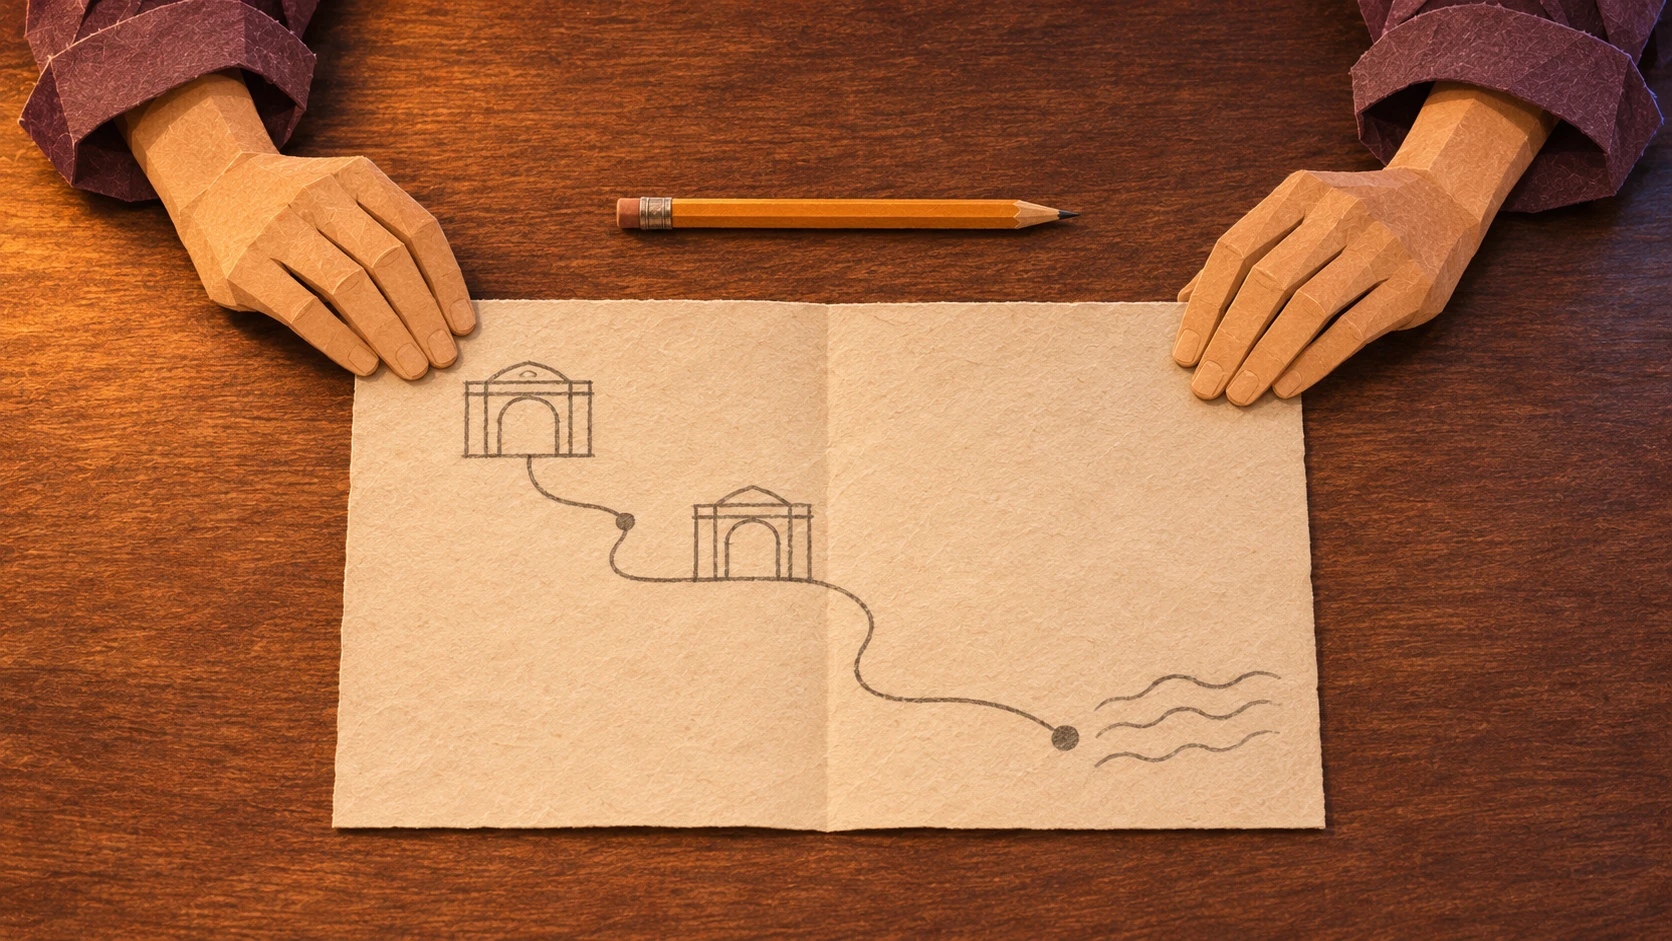
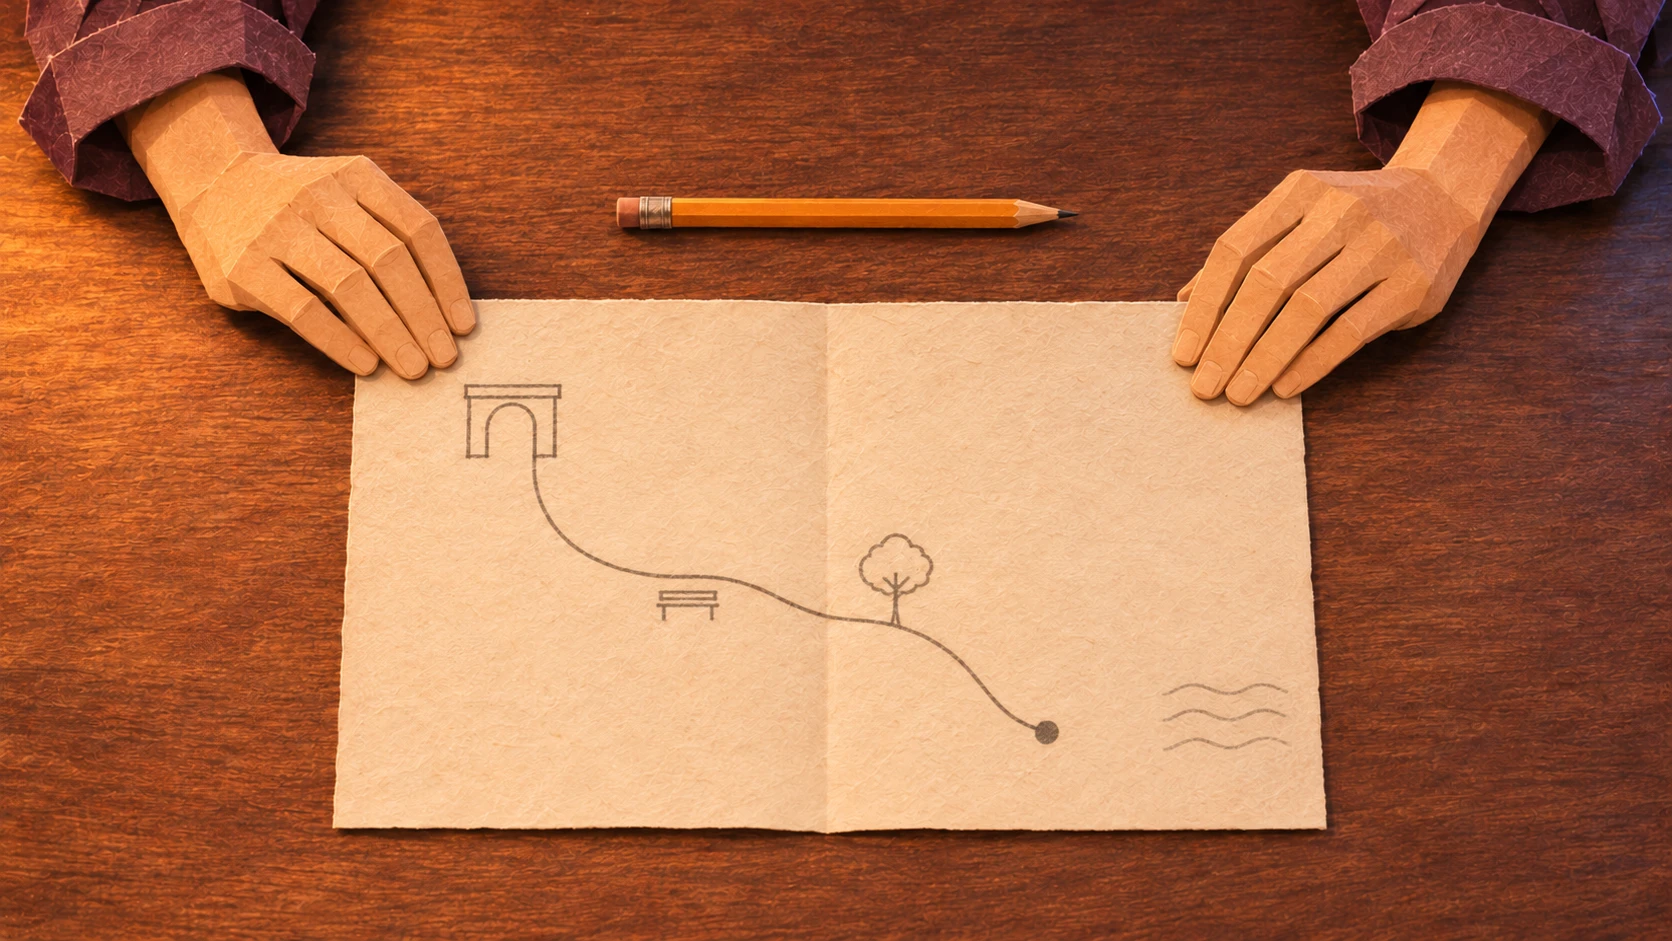
Ellis's route, corrected and on by default; the lesson is spoken as the reflection opens
- Robert's corrected P2b (cherry-picked): one courtyard arch, a route past a
  bench and a tree, ending on open ground with the harbour unreached. It's
  now the runtime open plate, so The Quiet Minute's close look is on by
  default (?p2=0 turns it off). For Bob's review before any publish.
- When a story's reflection opens, the narrator reads its lesson (if a take
  exists).
- make-voices-v2.py renders the lessons and skips takes that already exist
  (--redo re-renders).
- qa/voices.html: a review page with every take, its direction and what
  Whisper heard, beside a few old Kokoro lines.

Claude-Session: https://claude.ai/code/session_01ApSKLU6ahVPpCbpsvAcGP2

diff --git a/docs/demos/played/qa/voices.html b/docs/demos/played/qa/voices.html
@@ -1,0 +1,47 @@
+<!doctype html>
+<html lang="en">
+<head>
+<meta charset="utf-8">
+<meta name="viewport" content="width=device-width,initial-scale=1">
+<title>Voice takes</title>
+<!-- Review page (not shipped): every scripted line's take, its acting direction, and what Whisper heard. -->
+<style>
+:root{--ink:#f3e7cf;--dim:#b9ae9a;--gold:#e9c27a;--bg:#0b0b10;--line:#ffffff1a}
+*{box-sizing:border-box}body{margin:0;background:var(--bg);color:var(--ink);font:15px/1.5 system-ui,sans-serif}
+main{max-width:980px;margin:0 auto;padding:24px 16px 64px}h1{font:28px Georgia,serif;margin:.2em 0}h2{font:22px Georgia,serif;margin:1.6em 0 .4em;color:var(--gold)}
+p.lead{color:var(--dim);max-width:62em}
+.row{display:grid;grid-template-columns:7.5em 1fr 220px;gap:12px;align-items:center;padding:10px 0;border-top:1px solid var(--line)}
+.who{font-weight:600}.who small{display:block;font-weight:400;color:var(--dim)}
+.text{font:16px/1.45 Georgia,serif}.dir{display:block;color:var(--dim);font:italic 13px/1.4 system-ui;margin-top:3px}
+.heard{display:block;color:#9fb7a0;font-size:12.5px;margin-top:3px}.flag{color:#f0a070}
+audio{width:100%}
+@media(max-width:700px){.row{grid-template-columns:1fr}}
+</style>
+</head>
+<body>
+<main>
+<h1>Voice takes for the played scripts</h1>
+<p class="lead">These are scratch performances, rendered locally with Qwen3-TTS 1.7B CustomVoice (Apache-2.0) from each line's acting direction. Whisper checked each take's words; a flag means it drifted. They're meant to be heard against the old scratch voices below, then against Eleven v4 and our own recordings. Play them in the scene too: <a href="../scene.html?ep=slides" style="color:var(--gold)">the scenes</a> use these takes automatically.</p>
+<div id="old"></div>
+<div id="list">Loading…</div>
+</main>
+<script>
+(async function(){
+ const [man,rep,scripts]=await Promise.all([fetch('../voices/v2/manifest.json').then(r=>r.json()),fetch('voice-report.json').then(r=>r.ok?r.json():{}).catch(()=>({})),
+  Promise.all(['standup','slides','scope','pixel','ship','seam'].map(ep=>fetch('../scripts/'+ep+'.json').then(r=>r.json())))]);
+ const el=(t,c,x)=>{const e=document.createElement(t);if(c)e.className=c;if(x!=null)e.textContent=x;return e};
+ const row=(who,voice,text,dir,src,heard,flag)=>{const r=el('div','row');const w=el('div','who',who);if(voice)w.append(el('small',null,voice));
+  const t=el('div','text',text);if(dir)t.append(el('span','dir',dir));if(heard!=null){const h=el('span','heard'+(flag?' flag':''),(flag?'Check: ':'Heard: ')+heard);t.append(h)}
+  const a=src?Object.assign(el('audio'),{controls:true,preload:'none',src}):el('span','dir','not rendered yet');r.append(w,t,a);return r};
+ const old=document.getElementById('old');old.append(el('h2',null,'Before: the old scratch voices (Kokoro)'));
+ for(const [who,text,f] of [['Theo','Main gate, courtyard, then the harbour. Everyone happy?','qm-01'],['Nia','The courtyard gate closes—','qm-02'],['Nia','We arrive after it closes.','qm-04'],['Asha','They won’t know where the map came from.','slides-setup-3']])
+  old.append(row(who,'kokoro',text,null,'../voices/'+f+'.mp3'));
+ const list=document.getElementById('list');list.textContent='';
+ for(const s of scripts){const ep=s.id,m=man[ep]||{},rp=rep[ep]||{};list.append(el('h2',null,s.title));
+  const lines=s.id==='standup'?[...s.setup,...Object.values(s.branches).flat()].map(b=>[b.id,b]):[...s.setup.map((b,i)=>['setup-'+i,b]),...Object.entries(s.branches).flatMap(([k,v])=>v.map((b,i)=>[k+'-'+i,b]))];
+  if(s.lesson)lines.push(['lesson',{speaker:'',line:s.lesson,direction:'the lesson, read as the reflection opens'}]);
+  for(const [key,b] of lines){if(!b.line)continue;const r=rp[key];list.append(row(b.speaker||'Narrator',r?r.voice:'',b.line,b.direction,m[key]?'../voices/v2/'+m[key]:null,r?r.heard:null,r&&r.flag))}}
+})();
+</script>
+</body>
+</html>

diff --git a/docs/demos/played/quiet.js b/docs/demos/played/quiet.js
@@ -11,7 +11,7 @@ await Promise.all(Object.entries(PLATES).map(([k,f])=>stage.add(k,PL+f+'.webp','
 // Ellis's route close-ups (Robert's P2a/P2b) are review candidates until Bob approves them: ?p2=1 turns them on.
 // The played script (scripts/standup.json): who's who, the lines with their acting, the question and the reflections.
 const SCRIPT=window.StoryUI?await StoryUI.load('standup'):null,UI=SCRIPT?StoryUI.create(SCRIPT):null;
-const P2=new URLSearchParams(location.search).get('p2')==='1';let P2ready=false;
+const P2=new URLSearchParams(location.search).get('p2')!=='0';let P2ready=false;// Robert's corrected route (courtyard to open ground) is on by default; ?p2=0 turns the close look off.
 // The real objects (P0): a clean table with the platter, the tray and the hands as separate layers, so the platter
 // turns under Theo's hand and the tray slides with its own shadow. If they fail to load, the region warp stays.
 const LAYERS='plates/qm-layers/';let layered=false;
@@ -178,7 +178,7 @@ function commit(id){if(phase!=='decision')return;UI&&UI.decide(false);$('thought
    at(25,ending)}})}
 const Q=new URLSearchParams(location.search),SESSION=Q.get('session')||'standalone',EMBED=parent!==window;let reported=false;
 function notify(type,outcome){if(EMBED)parent.postMessage({channel:'asterwind.episode.v1',episodeId:'standup',session:SESSION,type,...(outcome?{outcome}:{})},'*')}
-function ending(){phase='end';if(UI&&UI.reflect(choice,$('end'))){const r=SCRIPT.reflections[choice];live('The Quiet Minute. '+r.title+' What it kept: '+r.kept+' What it cost: '+r.cost+' '+SCRIPT.lesson)}else{$('end').hidden=false;$('again').focus({preventScroll:true});live('The Quiet Minute. Again, or the other way.')}if(!reported){reported=true;notify('completed',choice)}}
+function ending(){phase='end';if(UI&&UI.reflect(choice,$('end'))){if(buf['v2:lesson'])at(1.2,()=>play('v2:lesson',.9));const r=SCRIPT.reflections[choice];live('The Quiet Minute. '+r.title+' What it kept: '+r.kept+' What it cost: '+r.cost+' '+SCRIPT.lesson)}else{$('end').hidden=false;$('again').focus({preventScroll:true});live('The Quiet Minute. Again, or the other way.')}if(!reported){reported=true;notify('completed',choice)}}
 $('again').onclick=()=>{$('end').hidden=true;UI&&UI.hideReflection();cues.length=0;tweens.length=0;peeked=false;T=0;$('cap').querySelector('.line').textContent='';begin()};
 $('other').onclick=()=>{$('end').hidden=true;UI&&UI.hideReflection();cues.length=0;tweens.length=0;const other=choice==='round'?'slips':'round';S.mix=0;toDecisionInstant(other)};
 function toDecisionInstant(other){phase='master';stage.show('master');toDecision();at(reduced?.4:2.4,()=>commit(other))}

diff --git a/docs/demos/played/scene.js b/docs/demos/played/scene.js
@@ -127,7 +127,7 @@ function commit(id){if(phase!=='decision')return;phase='consequence';UI&&UI.deci
  else{if(!S.slide)S.slide=[r.x-.012,r.y-.012,r.x+r.w+.012,r.y+r.h+.012];tw(S,'so',[(.5-r.cx)*.06,(.5-r.cy)*.06],reduced?.1:.7)}play('tap',.7);
  live('You '+story.choice.actions.find(a=>a.id===id).label.toLowerCase()+'.');
  at(reduced?.2:.9,()=>{if(!layered){S.slide=null;S.so=[0,0]}playBeats(story.branches[id],id,ending)})}
-function ending(){phase='end';if(UI&&UI.reflect(choice,$('end'))){live(story.title+'. '+SCRIPT.reflections[choice].title+' What it kept: '+SCRIPT.reflections[choice].kept+' What it cost: '+SCRIPT.reflections[choice].cost+' '+(SCRIPT.lesson||''))}else{$('end').hidden=false;$('again').focus({preventScroll:true});live(story.title+'. Again, or the other way.')}if(!ending.sent){ending.sent=1;notify('completed',choice)}}
+function ending(){phase='end';if(UI&&UI.reflect(choice,$('end'))){if(buf['v2:lesson'])at(1.2,()=>play('v2:lesson',.9));live(story.title+'. '+SCRIPT.reflections[choice].title+' What it kept: '+SCRIPT.reflections[choice].kept+' What it cost: '+SCRIPT.reflections[choice].cost+' '+(SCRIPT.lesson||''))}else{$('end').hidden=false;$('again').focus({preventScroll:true});live(story.title+'. Again, or the other way.')}if(!ending.sent){ending.sent=1;notify('completed',choice)}}
 function begin(){phase='setup';S.warps=[];heads=[];$('cap').querySelector('.line').textContent='';stage.show(camFor('open').plate);S.mix=0;S.zoom=1;S.cen=[.5,.5];S.dim=1;S.so=[0,0];S.so0=[0,0];S.slide=null;tw(S,'dim',0,2.2);
  playBeats(story.setup,'setup',decision)}
 $('again').onclick=()=>{$('end').hidden=true;UI&&UI.hideReflection();cues.length=0;tws.length=0;begin()};

diff --git a/docs/demos/played/make-voices-v2.py b/docs/demos/played/make-voices-v2.py
@@ -42,6 +42,7 @@ def lines(ep, s):
     else:
         for part in ['setup', *s['branches']]:
             for i, b in enumerate(s['setup'] if part == 'setup' else s['branches'][part]): yield f'{part}-{i}', b
+    if s.get('lesson'): yield 'lesson', {'speaker': '', 'line': s['lesson']}  # the narrator reads it as the reflection opens
 
 
 def main(eps):
@@ -56,6 +57,7 @@ def main(eps):
         for key, b in lines(ep, s):
             text = (b.get('line') or '').strip()
             if not text or b.get('black'): continue
+            if man[ep].get(key) and (OUT / ep / f'{key}.mp3').exists() and '--redo' not in sys.argv: continue  # keep existing takes
             who = b.get('speaker') or ''; voice = CAST.get(ep, {}).get(who) or CAST['*'].get(who) or 'aiden'
             ins = NARRATOR if not who else (b.get('direction') or 'natural, sincere').rstrip('.') + '.' + HUMAN
             best = None
@@ -80,4 +82,4 @@ def main(eps):
 
 
 if __name__ == '__main__':
-    main(sys.argv[1:] or ['standup', 'slides', 'scope', 'pixel', 'ship', 'seam'])
+    main([a for a in sys.argv[1:] if not a.startswith('--')] or ['standup', 'slides', 'scope', 'pixel', 'ship', 'seam'])
